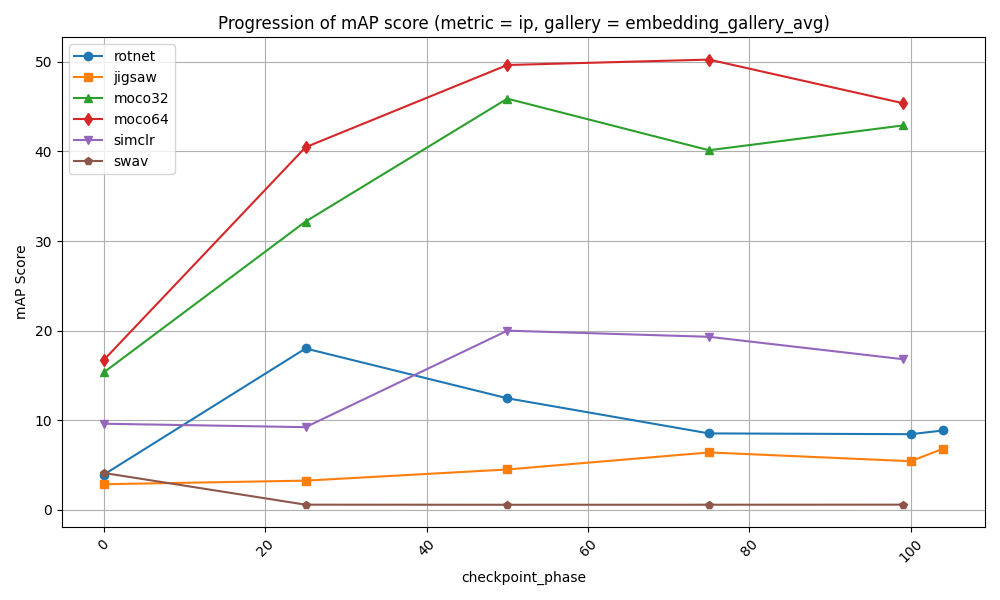
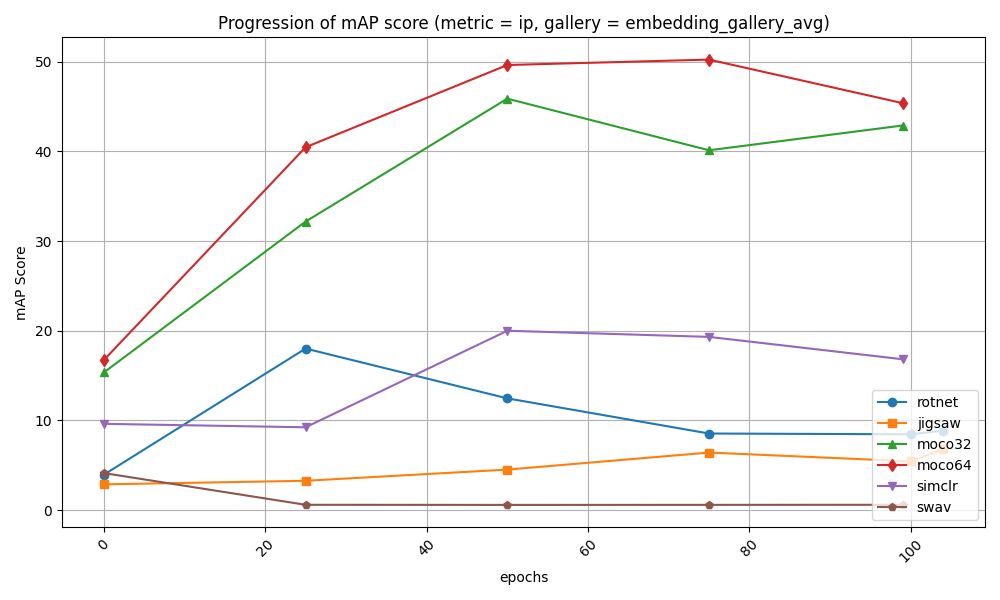
fix

diff --git a/vissl_training/validation/log_processing.py b/vissl_training/validation/log_processing.py
@@ -98,10 +98,10 @@ def plot_metric_progression(json_file, models, gallery, metric, output_file):
 
         plt.plot(x_values, y_values, marker=markers[i % len(markers)], label=model)
 
-    plt.xlabel('checkpoint_phase')
+    plt.xlabel('epochs')
     plt.ylabel('mAP Score')
     plt.title(f'Progression of mAP score (metric = {metric}, gallery = {gallery})')
-    plt.legend(loc="best")
+    plt.legend(loc="lower right")
     plt.grid(True)
     plt.xticks(rotation=45)
     plt.tight_layout()
@@ -109,9 +109,10 @@ def plot_metric_progression(json_file, models, gallery, metric, output_file):
     plt.close()
 
 
-def main():
-    print("log_to_json")
-    # PARSING mAPs to json
+
+def proces_mAP_logs():
+    
+    # # PARSING mAP logs to json
     # f_name = "total_gallery_mAP_scores_log"
     # log_mAP_txt = Path(f"thesis_logs/{f_name}.txt")
     # log_mAP_json = Path(f"thesis_logs/{f_name}.json")
@@ -133,6 +134,10 @@ def main():
         for metric in metrics:
             output_file = output_folder / metric
             plot_metric_progression(log_mAP_json, models, gallery, metric, output_file)
+
+def main():
+    print("log_to_json")
+    proces_mAP_logs()
 
     
 if __name__ == "__main__":
